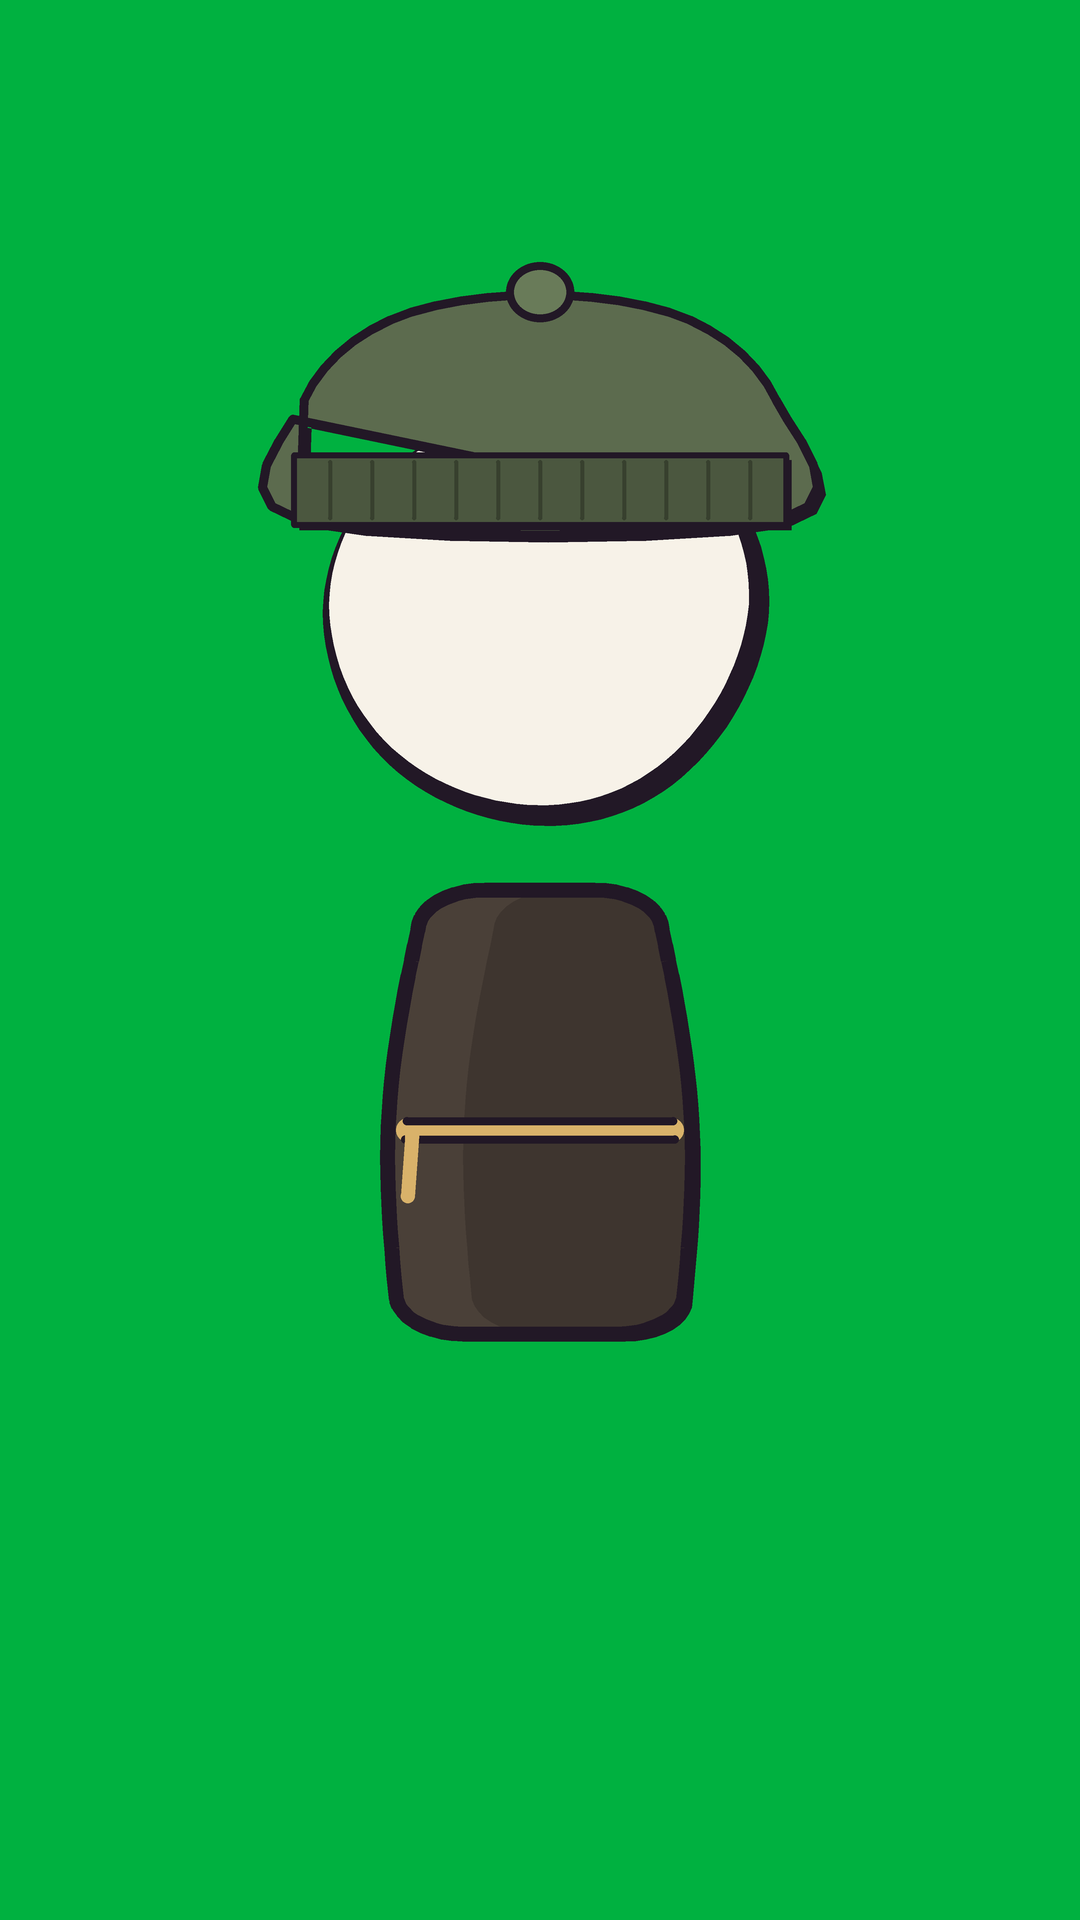
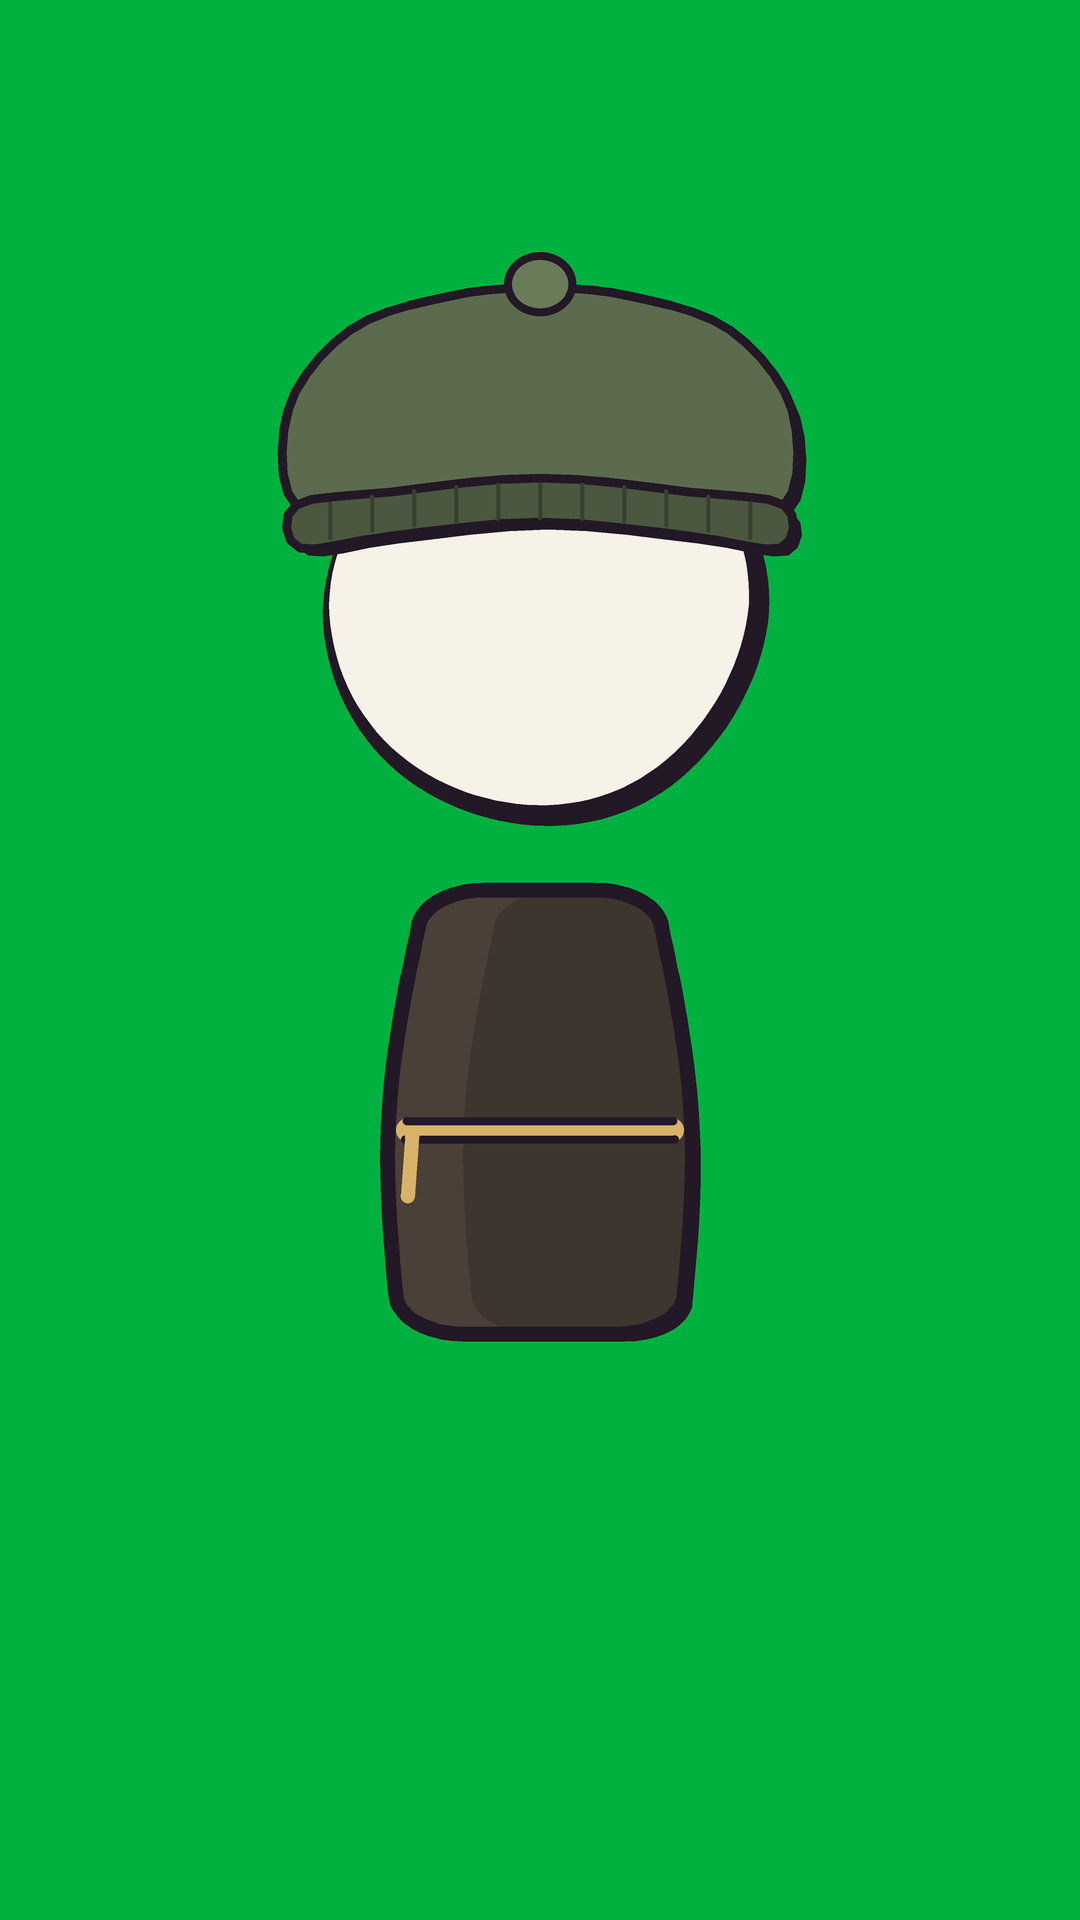
pm: connected knit beanie (C06): dome + curved cuff + pom-pom

Changed region(s): [[0.2444, 0.1875, 0.7639, 0.3125], [0.3056, 0.125, 0.5806, 0.1875], [0.5806, 0.1562, 0.7028, 0.1875]]

diff --git a/projects/the-puppet-master/tools/mk_pm.py b/projects/the-puppet-master/tools/mk_pm.py
@@ -178,10 +178,12 @@ def hair_mohawk(d,view='F'):
 # ---- Thug 2 (C06): knit beanie with a folded band ----
 def hat_beanie(d,view='F'):
     c=hexc('#5c6b4e')
-    poly(d,cr([(CX-240,520),(CX-236,400),(CX-150,320),(CX,295),(CX+150,320),(CX+236,400),(CX+240,520)],6)+[(CX+240,520),(CX-240,520)],c)
-    poly(d,[(CX-246,525),(CX-246,455),(CX+246,455),(CX+246,525)],shade(c,.82),lw=10*K)
-    for x in range(-210,231,42): line(d,[(CX+x,462),(CX+x,518)],lw=4*K,col=shade(c,.6))
-    ell(d,CX,292,34,30,shade(c,1.15),lw=8*K)
+    # one connected beanie: dome that follows the skull -> curved folded cuff (same curve as the dome's rim, no overhang) -> pom-pom overlapping the crown
+    poly(d,cr([(CX-244,505),(CX-252,410),(CX-190,330),(CX-90,296),(CX,288),(CX+90,296),(CX+190,330),(CX+252,410),(CX+244,505),(CX+150,492),(CX,478),(CX-150,492)],5),c)
+    poly(d,cr([(CX-244,505),(CX-150,492),(CX,478),(CX+150,492),(CX+244,505),(CX+240,548),(CX+150,536),(CX,522),(CX-150,536),(CX-240,548)],4),shade(c,.82))
+    for x in range(-210,231,42):
+        yt=478+(x/244.0)**2*27; line(d,[(CX+x,yt+6),(CX+x,yt+40)],lw=4*K,col=shade(c,.6))
+    ell(d,CX,284,36,32,shade(c,1.15),lw=8*K)
 # ---- Thug 3 (C07): bald with a red bandana, knot tails at the side ----
 def hat_bandana(d,view='F'):
     r=hexc('#c83a3a')
